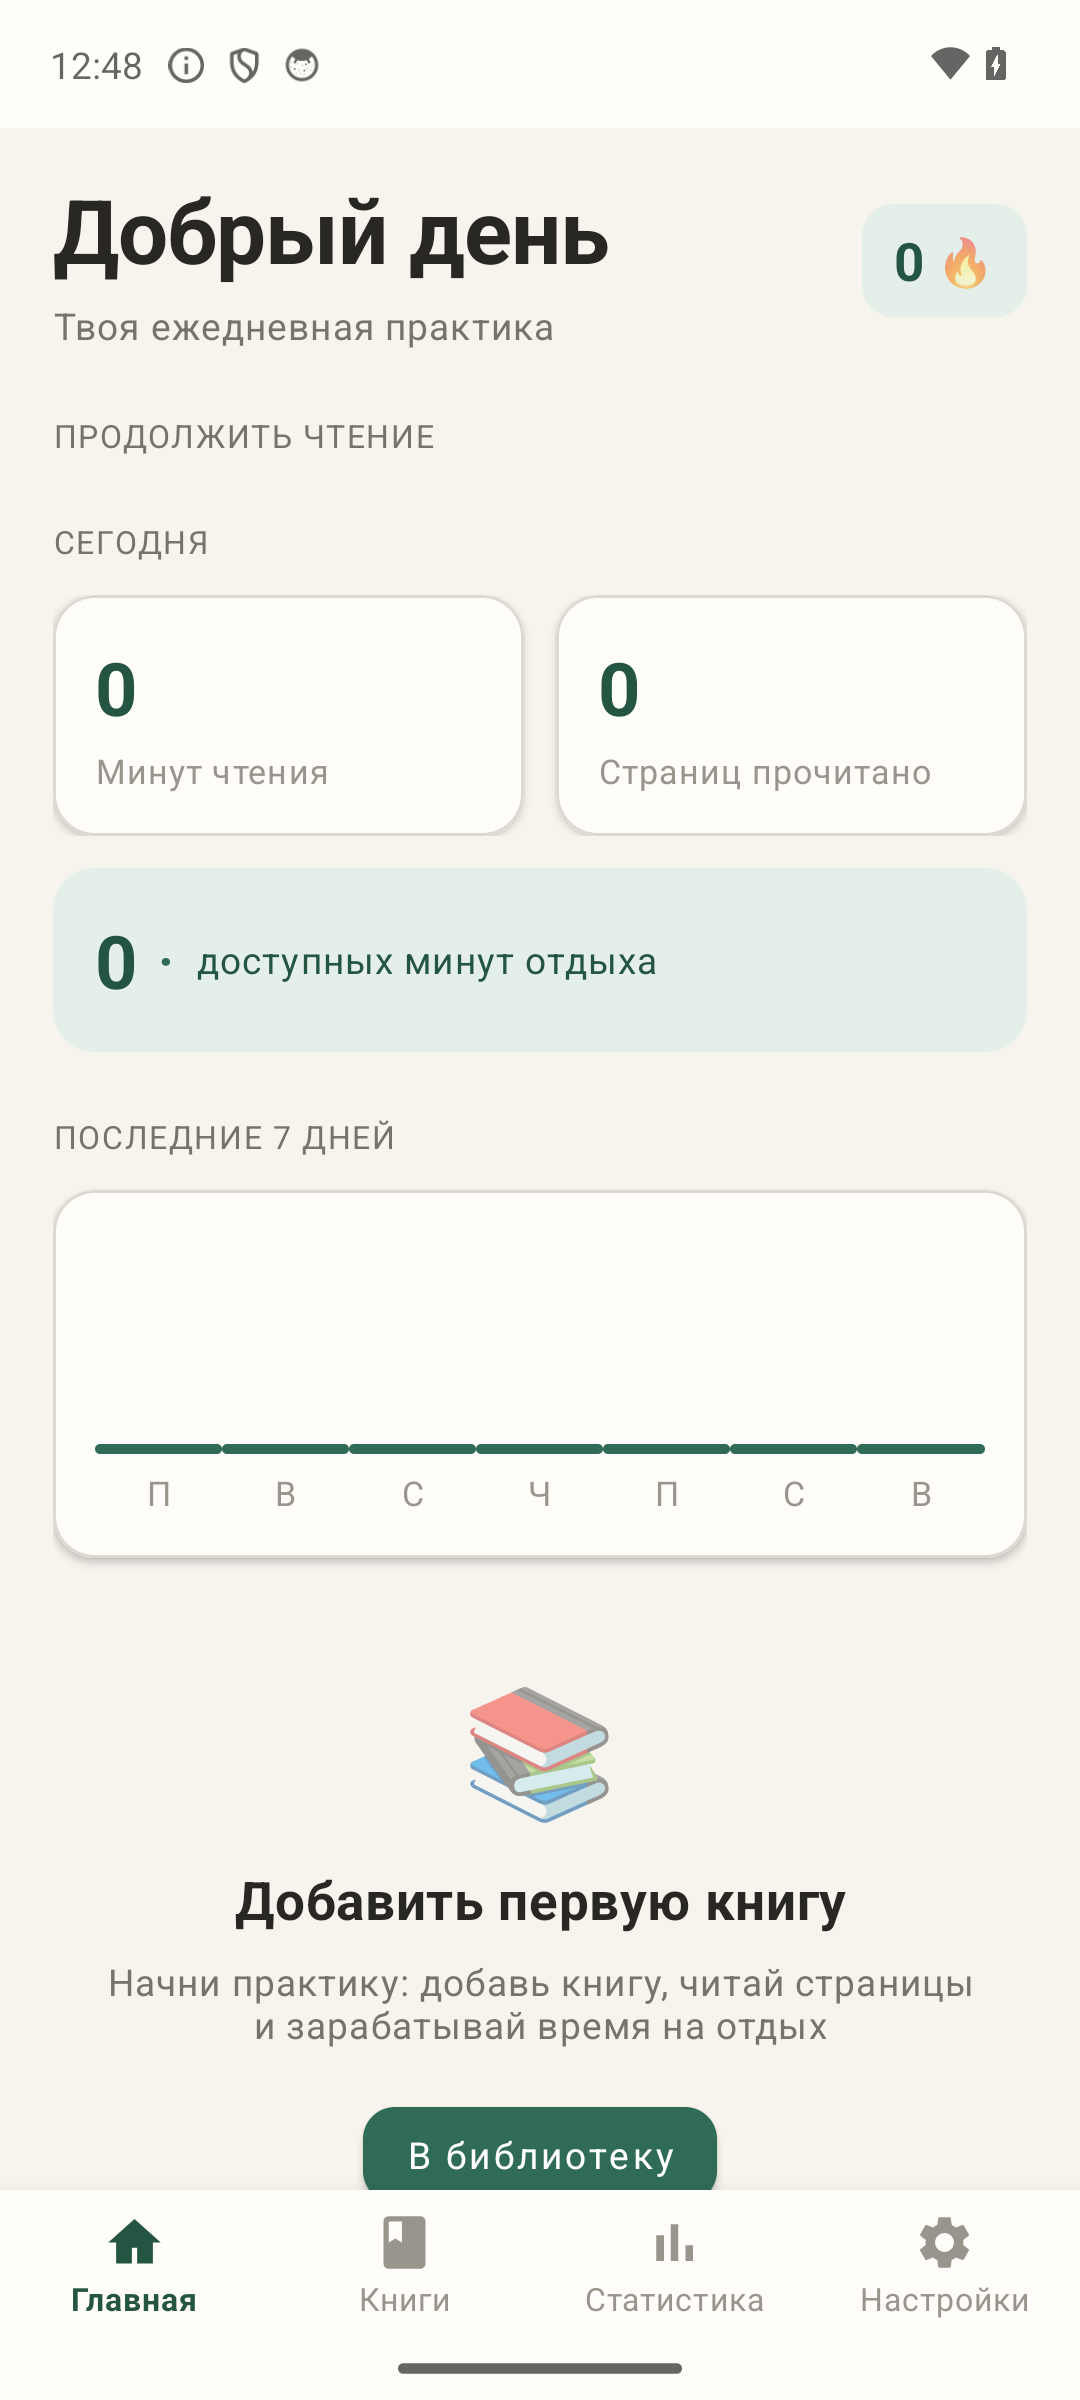
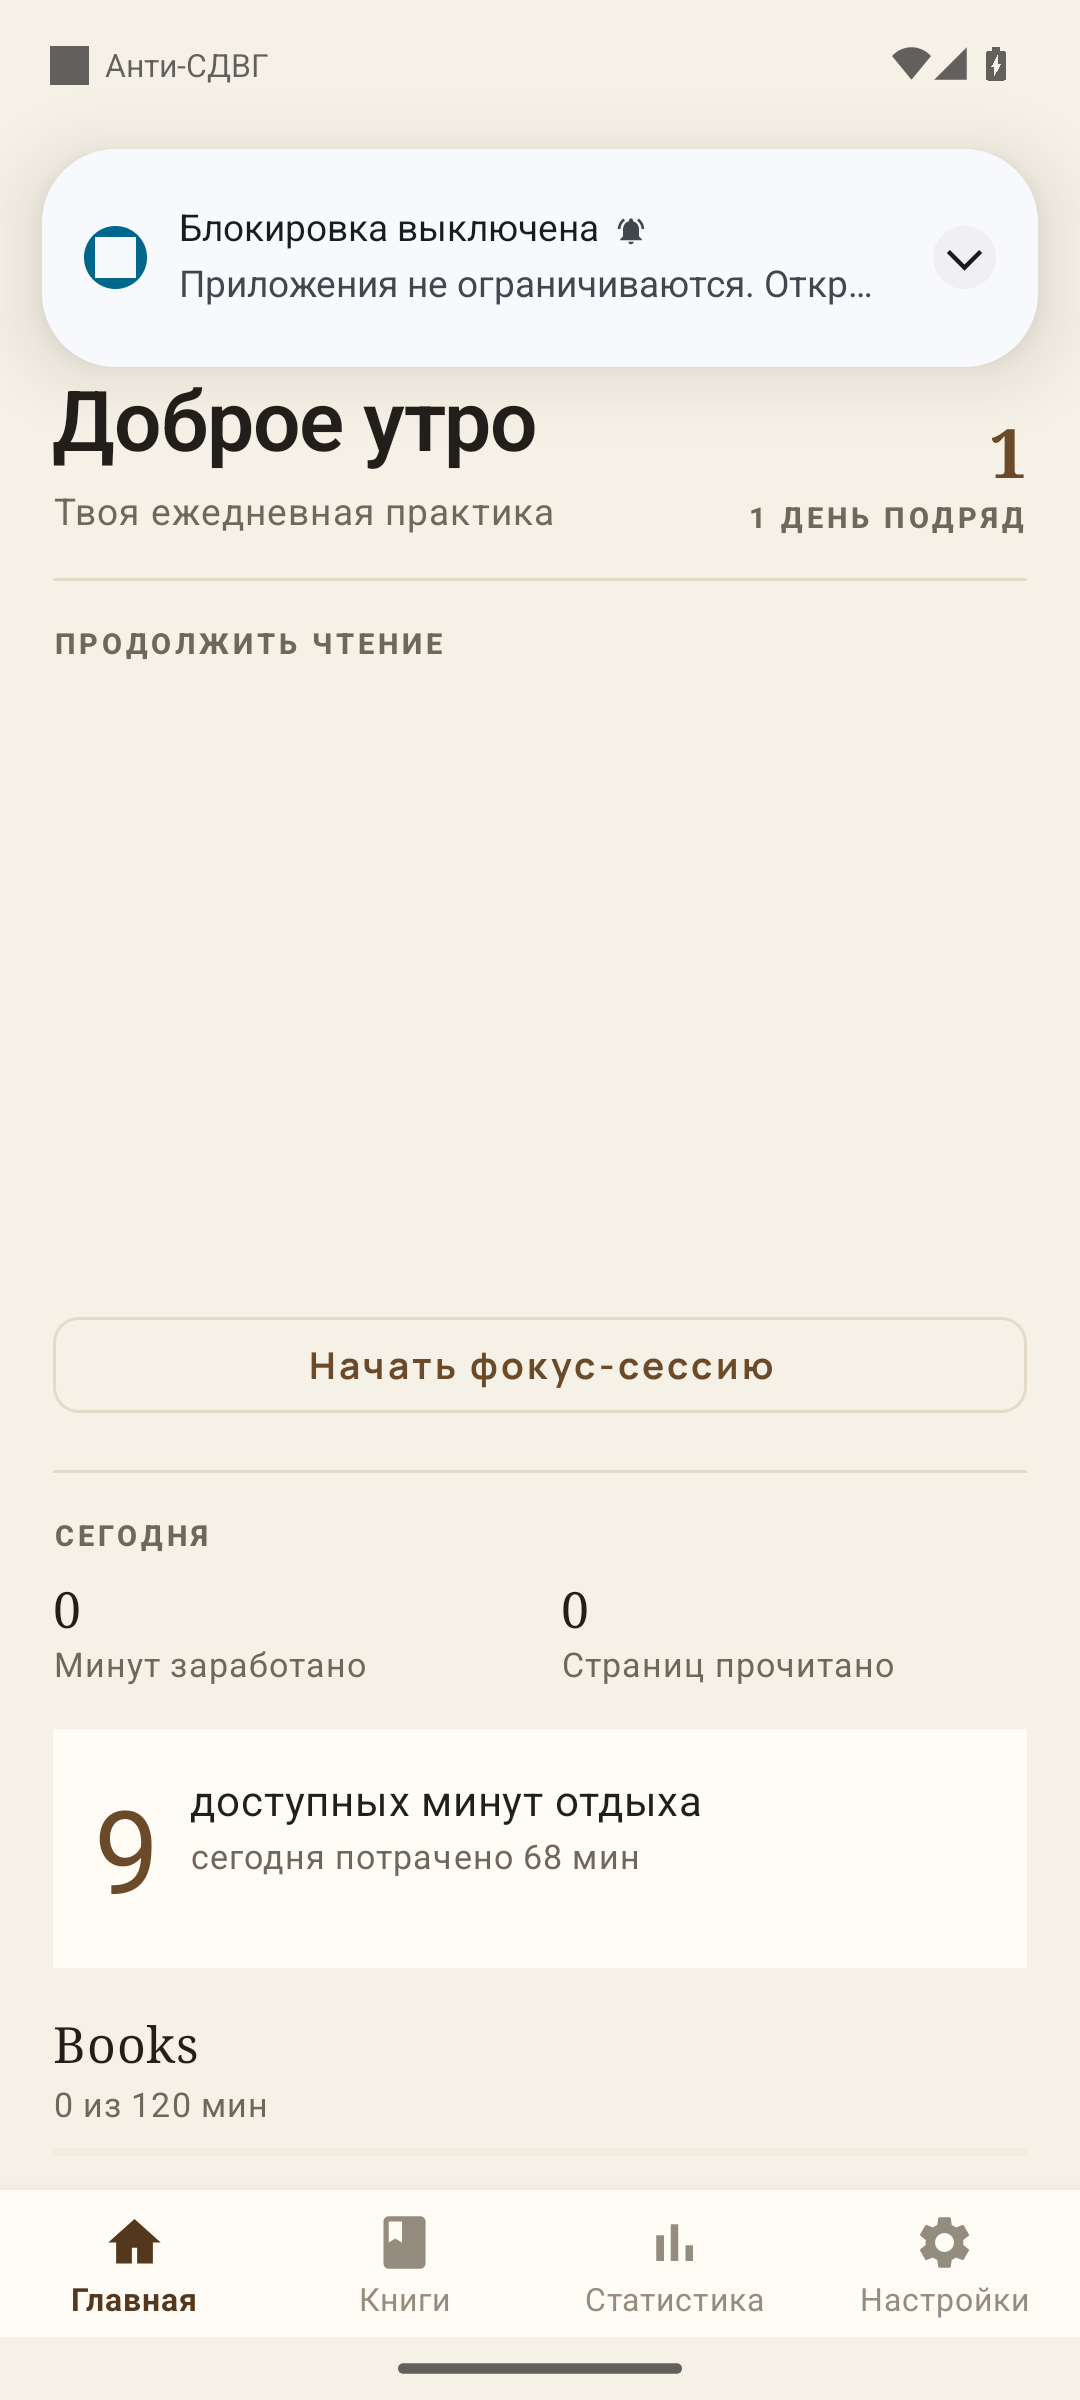
Docs: refresh README and screenshots

diff --git a/README.md b/README.md
@@ -19,24 +19,24 @@ Native **Kotlin Android**-приложение, которое помогает 
 
 ## Ключевые возможности
 
-- **Блокировка отвлекающих приложений** через `AccessibilityService` (не UsageStatsManager) с персистентным оверлеем.
-- **Проверка чтения ИИ (DeepSeek)** — пересказ с разбором (герои/события/вывод) или быстрая оценка «по смыслу»; строгость Мягко/Нормально/Строго в настройках, опциональная цитата как доказательство; квиз генерируется отдельно и проверяется локально (2 из 3).
-- **Таймер траты:** минуты списываются ежесекундно во время использования заблокированного приложения; при 0 → grace-окно 5 минут → блокирующий оверлей.
-- **Форматы книг:** `Бумажная` (×1.0) и `Электронная` (×0.6) — влияют на заработанное время за страницу.
-- **Авто-подстановка книги по ISBN** и **по ссылке из Яндекс.Книг** (Google Books → фоллбэк Open Library; Яндекс — только title/author/publisher).
+- **Блокировка отвлекающих приложений** через `AccessibilityService` (не UsageStatsManager): видит только пакет активного приложения, содержимое экрана не читает. Оверлей «Минуты кончились» с кнопками «Читать сейчас», «Потратить огонёк», «Позже».
+- **Таймер траты:** минуты списываются по начатым минутам, пока открыто заблокированное приложение; уход в другое приложение останавливает списание.
+- **Проверка чтения ИИ (DeepSeek)** — вопросы по реальному тексту прочитанных страниц (1–5 по объёму). Каждый вопрос обязан цитировать фразу из отрывка, иначе отбрасывается; варианты перемешиваются. Строгость Мягко/Нормально/Строго меняет и промпт, и порог (½ / ⅔ / ¾). Офлайн-фолбэк — пропуски слов из того же текста; для бумажных книг — пересказ с голосовым вводом.
+- **Экономика чтения:** электронная книга — 2 мин за страницу + 1 мин за минуту чтения + серия дней (до ×2); защита от пролистывания — не быстрее 2 страниц в минуту. Бумажная — 3 мин за страницу из настроек.
+- **Фокус-сессия 30/5:** пока идёт фокус, заблокированные приложения закрыты независимо от кошелька; 30 минут дают 15 минут отдыха (2:1). Блок переживает перезапуск службы.
+- **Аварийные «огоньки»:** старт 3, 1 огонёк = 10 мин экстренного доступа.
+- **Дневной лимит трат, копилка** на цель (откладывай по 10 мин, разбивай обратно), **виджет кошелька**, **достижения** за регулярное чтение.
+- **Встроенная читалка (FB2/TXT/EPUB, в т.ч. `.fb2.zip`):** два режима — **постранично вправо** (свайп/тап по краям) и **лента вниз**, четыре темы, три шрифта, кегль 80–200%, озвучка с автоперелистыванием, закладки, оглавление, поиск. Считает честное время (пауза при простое) и **реальные страницы** вёрстки. Перед тестом диапазон «с — по» можно поправить; вопросы и минуты идут по выбранным страницам.
+- **Каталог бесплатных книг:** Викитека (русская классика), Project Gutenberg (английская), Флибуста (OPDS/FB2, поиск без учёта регистра и «ё»). Скачанное становится обычной книгой на полке.
+- **Авто-подстановка книги по ISBN** и **по ссылке из Яндекс.Книг** (Google Books → фоллбэк Open Library).
 - **Сканирование ISBN-кода камерой** через ML Kit Barcode Scanning + CameraX.
-- **Экран статистики:** остаток минут (live), заработанное за день, график последних 7 дней, кошелёк и аварийные токены.
-- **Аварийные «огоньки»:** старт 3, +1 за сессию, 1 огонёк = 10 мин экстренного доступа.
-- **Фокус-сессии Pomodoro 25/5:** завершённый блок приносит минуты 1:1, счётчик в статистике.
-- **Экономика:** дневной лимит трат, копилка на цель (откладывай по 10 мин, разбивай обратно), виджет кошелька на рабочий стол.
-- **Встроенная читалка (FB2/TXT, в т.ч. `.fb2.zip`):** импорт книги прямо в приложение, два режима чтения — **постранично вправо** (свайп или тап по краям экрана) и **лента вниз**, четыре темы (бумага/сепия/ночь/чёрная), три шрифта (с засечками/без/моно), размер шрифта и переносы для русского. Авто-счёт времени чтения (только пока экран включён и нет простоя — вставший таймер так и подписан «пауза») и **реальных страниц** вёрстки («стр. 3 из 6»; это же число уезжает в карточку книги), закладка позиции с автосохранением. В конце сессии — **лёгкий тест** по прочитанному куску (пропущенное слово, 4 варианта из того же текста, офлайн): без него минуты не начисляются.
-- **Достижения** (достижения за регулярное чтение).
+- **Статистика:** неделя / месяц / всё время, график по минутам, сводка.
 
 ## Скриншоты
 
-| Главный экран | Проверка чтения |
+| Главный экран | Читалка |
 |---|---|
-| ![Главный экран](home_screen.png) | ![Проверка чтения](scr_retelling.png) |
+| ![Главный экран](home_screen.png) | ![Читалка](scr_reader.png) |
 
 ## Стек
 
@@ -45,7 +45,7 @@ Native **Kotlin Android**-приложение, которое помогает 
 | Язык / UI | Kotlin, MVVM + Clean Architecture, ViewModel + StateFlow, View Binding |
 | локальная БД | Room 2.6 (KSP), сущности книги/сессии/кошелька/блокировок и т.д. |
 | ИИ-проверка | DeepSeek API (Retrofit + OkHttp, OpenAI-совместимый чат) |
-| Книги | Google Books API + Open Library + Яндекс.Книги парсер |
+| Книги | Google Books API + Open Library + Яндекс.Книги парсер + каталоги (Викитека / Gutendex / Флибуста OPDS) |
 | ISBN-скан | CameraX + ML Kit Barcode Scanning |
 | Платформа | minSdk 24, targetSdk 34, compileSdk 34 |
 
@@ -62,7 +62,7 @@ app/src/main/java/com/antisdvg/
 ├── service/
 │   └── BlockerService.kt   # AccessibilityService: оверлей, таймер траты, огоньки
 ├── ui/                     # Activity + Fragments + ViewModels
-│   └── reader/             # ReaderActivity/ViewModel: встроенная читалка FB2/TXT
+│   └── reader/             # ReaderActivity/ViewModel: встроенная читалка FB2/TXT/EPUB
 └── util/                   # TimeCalculator, BookText (FB2/TXT), ClozeQuiz, валидация и др.
 ```
 
